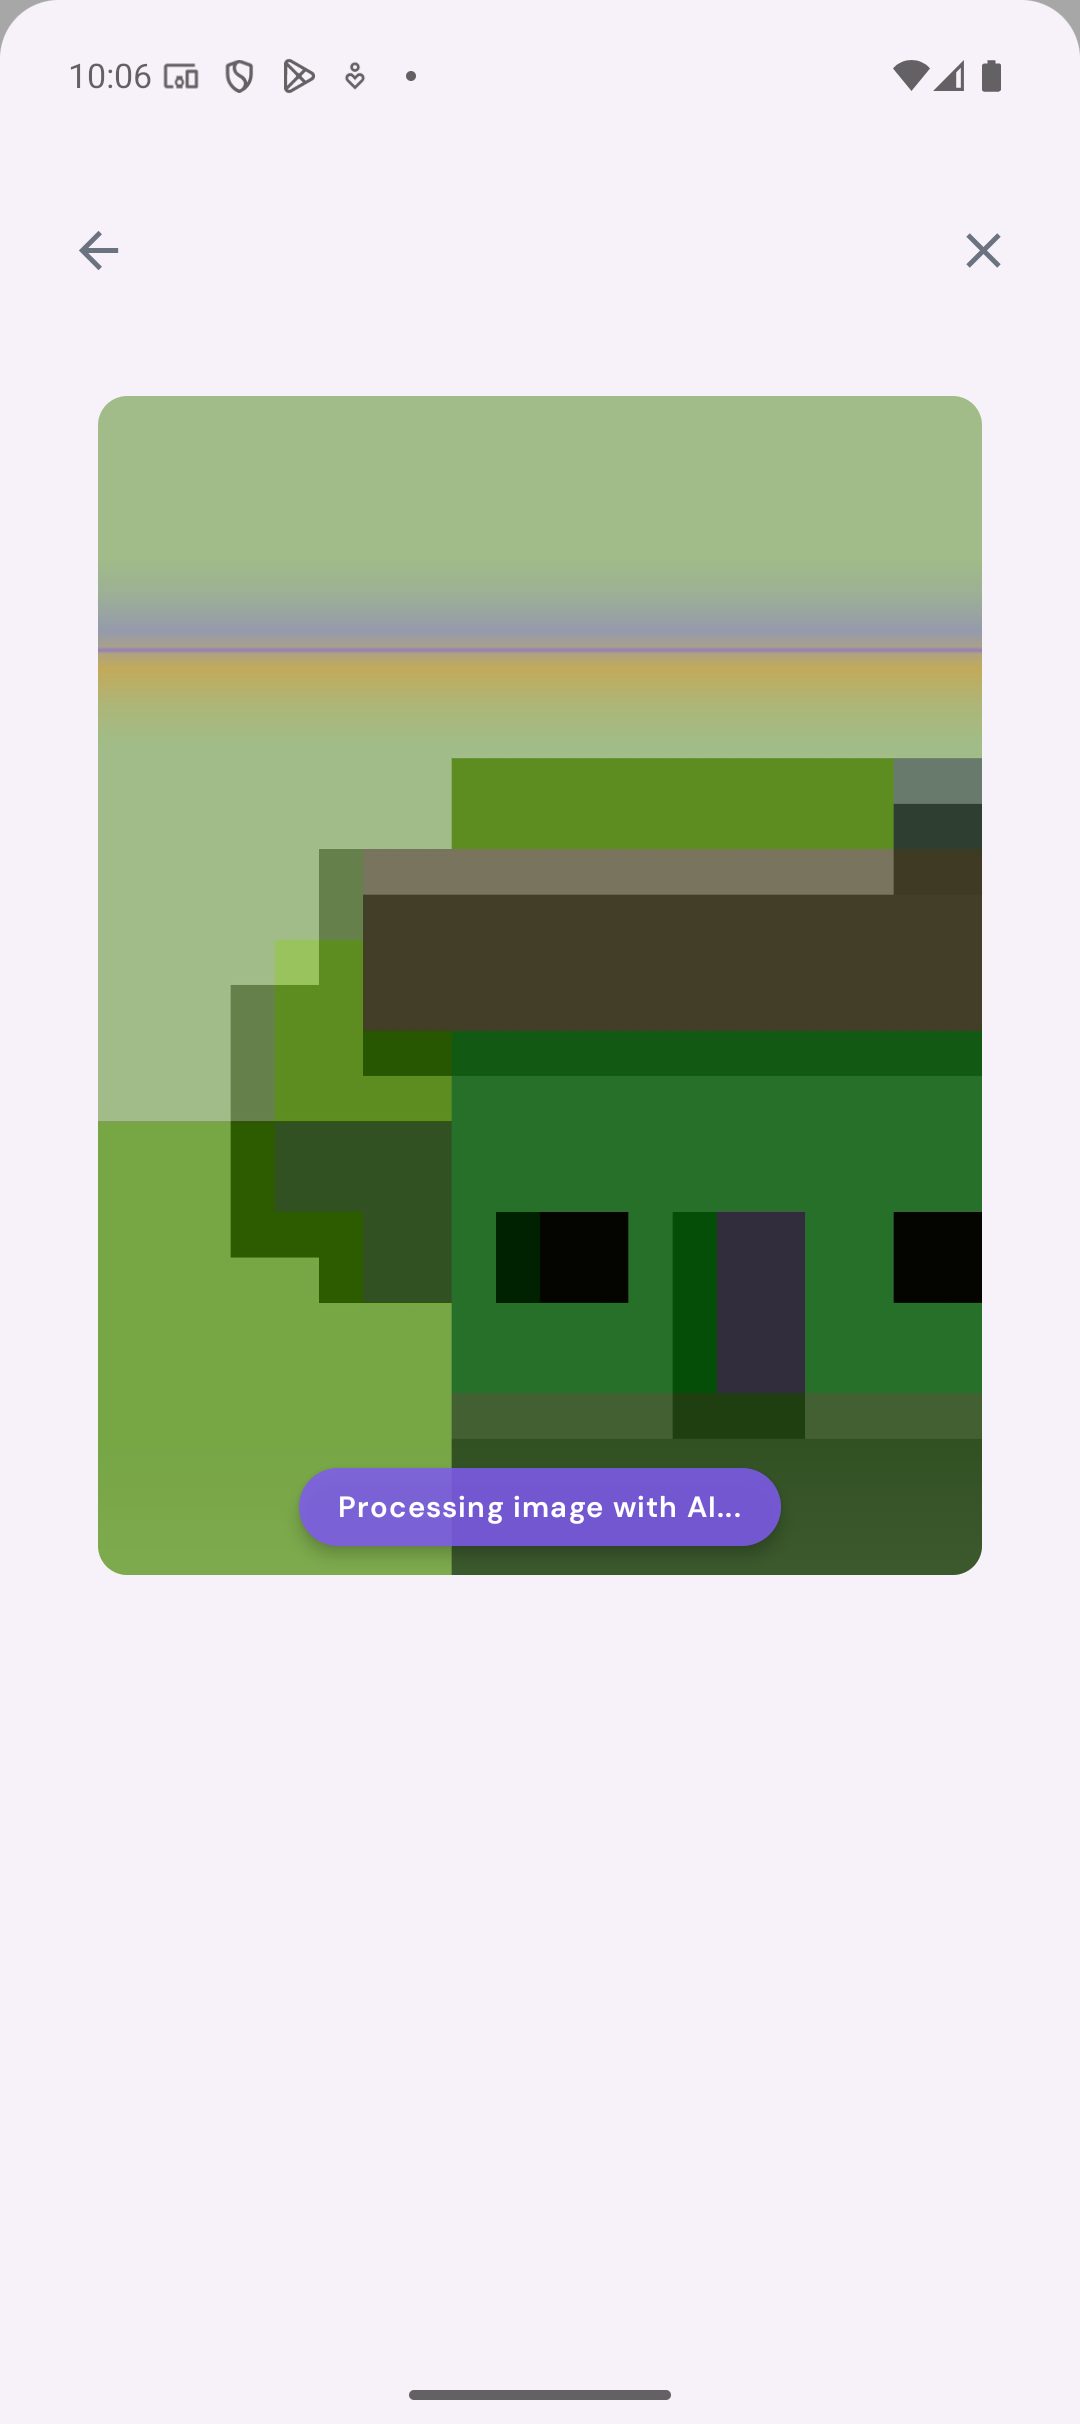
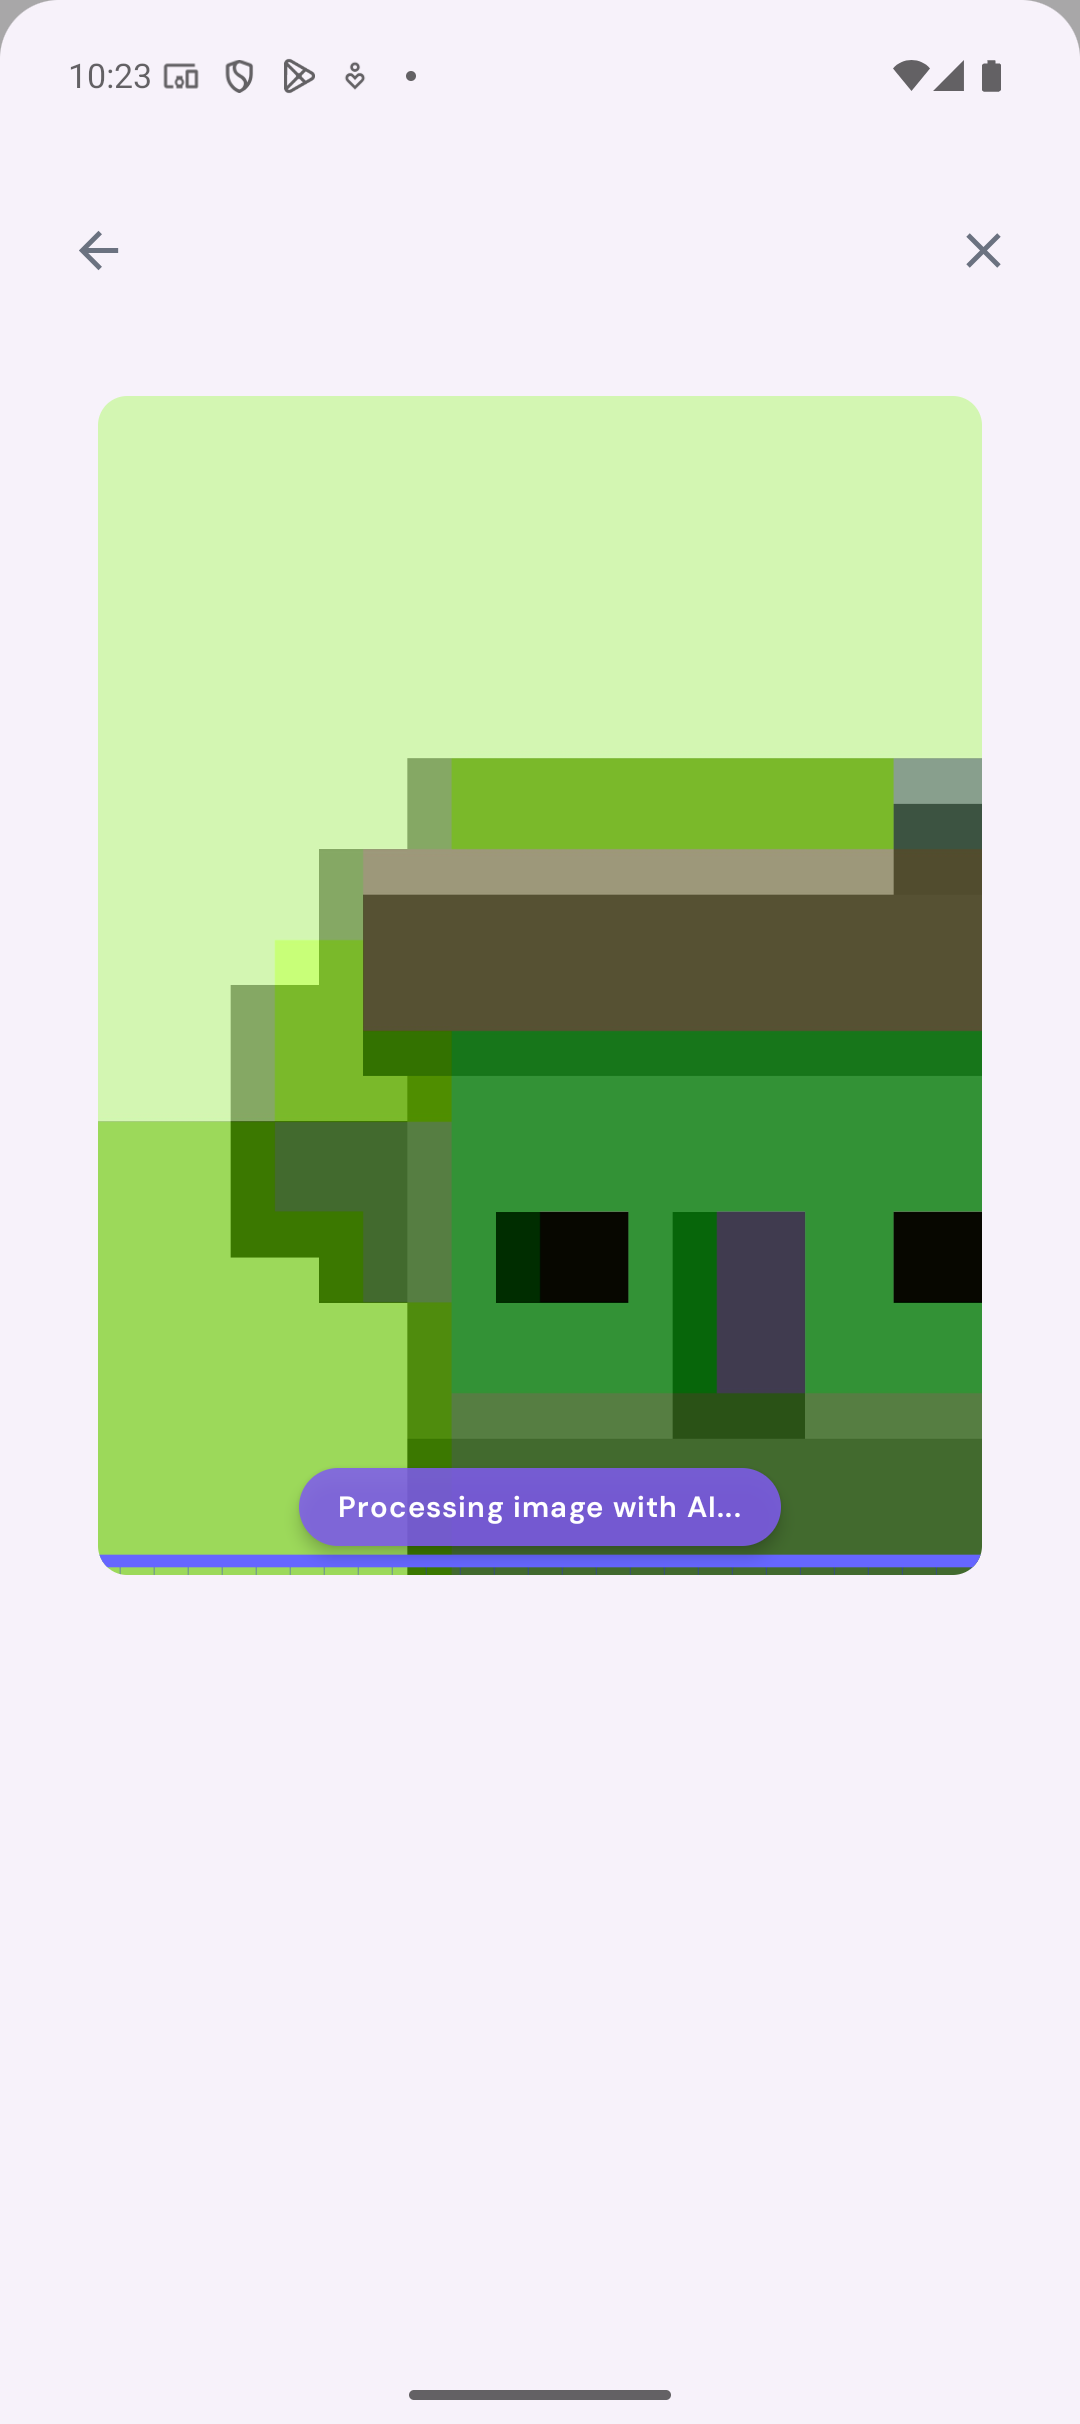
Use Lottie scanner animation for AI scan overlay
Replace the custom Canvas-based gradient wave with a bundled Lottie
scanner animation from LottieFiles. The animation renders as an
overlay on the image thumbnail during AI processing.

- Bundle scanner.json in composeResources/files/
- Load via LottieCompositionSpec.JsonString with Res.readBytes
- Keep the "Processing image with AI..." pill badge

diff --git a/design-system/src/commonMain/kotlin/components/animation/AiScanOverlay.kt b/design-system/src/commonMain/kotlin/components/animation/AiScanOverlay.kt
@@ -1,142 +1,67 @@
 package components.animation
 
-import androidx.compose.animation.core.LinearEasing
-import androidx.compose.animation.core.RepeatMode
-import androidx.compose.animation.core.animateFloat
-import androidx.compose.animation.core.infiniteRepeatable
-import androidx.compose.animation.core.rememberInfiniteTransition
-import androidx.compose.animation.core.tween
-import androidx.compose.foundation.Canvas
+import androidx.compose.foundation.Image
 import androidx.compose.foundation.layout.Box
 import androidx.compose.foundation.layout.fillMaxSize
-import androidx.compose.foundation.layout.fillMaxWidth
 import androidx.compose.foundation.layout.padding
 import androidx.compose.foundation.shape.RoundedCornerShape
 import androidx.compose.material3.MaterialTheme
 import androidx.compose.material3.Surface
 import androidx.compose.material3.Text
 import androidx.compose.runtime.Composable
+import androidx.compose.runtime.LaunchedEffect
 import androidx.compose.runtime.getValue
+import androidx.compose.runtime.mutableStateOf
+import androidx.compose.runtime.remember
+import androidx.compose.runtime.setValue
 import androidx.compose.ui.Alignment
 import androidx.compose.ui.Modifier
-import androidx.compose.ui.geometry.Offset
-import androidx.compose.ui.geometry.Size
-import androidx.compose.ui.graphics.Brush
 import androidx.compose.ui.graphics.Color
+import androidx.compose.ui.layout.ContentScale
 import androidx.compose.ui.text.font.FontWeight
 import androidx.compose.ui.unit.dp
+import io.github.alexzhirkevich.compottie.Compottie
+import io.github.alexzhirkevich.compottie.LottieCompositionSpec
+import io.github.alexzhirkevich.compottie.rememberLottieComposition
+import io.github.alexzhirkevich.compottie.rememberLottiePainter
+import lexicon.resources.generated.resources.Res
+import org.jetbrains.compose.resources.ExperimentalResourceApi
 
 /**
- * AI-style scanning overlay with an animated gradient wave that sweeps
- * vertically across the content. Designed to overlay image thumbnails
- * during AI processing.
+ * AI-style scanning overlay using a Lottie scanner animation.
+ * Designed to overlay image thumbnails during AI processing.
  *
  * @param label Text shown at the bottom of the overlay.
  * @param modifier Modifier for the root Box.
  */
+@OptIn(ExperimentalResourceApi::class)
 @Composable
 fun AiScanOverlay(
     label: String,
     modifier: Modifier = Modifier,
 ) {
-    val primary = MaterialTheme.colorScheme.primary
-    val tertiary = MaterialTheme.colorScheme.tertiary
+    var animationJson by remember { mutableStateOf<String?>(null) }
 
-    val infiniteTransition = rememberInfiniteTransition(label = "AiScan")
+    LaunchedEffect(Unit) {
+        animationJson = Res.readBytes("files/scanner.json").decodeToString()
+    }
 
-    // Main scan wave position — sweeps top-to-bottom
-    val scanProgress by infiniteTransition.animateFloat(
-        initialValue = -0.15f,
-        targetValue = 1.15f,
-        animationSpec = infiniteRepeatable(
-            animation = tween(durationMillis = 2400, easing = LinearEasing),
-            repeatMode = RepeatMode.Restart,
-        ),
-        label = "scanWave",
-    )
+    val json = animationJson ?: return
 
-    // Secondary shimmer — slower, broader
-    val shimmerProgress by infiniteTransition.animateFloat(
-        initialValue = -0.3f,
-        targetValue = 1.3f,
-        animationSpec = infiniteRepeatable(
-            animation = tween(durationMillis = 3600, easing = LinearEasing),
-            repeatMode = RepeatMode.Restart,
-        ),
-        label = "shimmer",
-    )
-
-    // Gentle pulse for the overlay opacity
-    val pulseAlpha by infiniteTransition.animateFloat(
-        initialValue = 0.18f,
-        targetValue = 0.28f,
-        animationSpec = infiniteRepeatable(
-            animation = tween(durationMillis = 1200, easing = LinearEasing),
-            repeatMode = RepeatMode.Reverse,
-        ),
-        label = "pulse",
-    )
+    val composition by rememberLottieComposition {
+        LottieCompositionSpec.JsonString(json)
+    }
 
     Box(modifier = modifier) {
-        Canvas(modifier = Modifier.fillMaxSize()) {
-            val w = size.width
-            val h = size.height
-
-            // Semi-transparent dark tint
-            drawRect(color = Color.Black.copy(alpha = pulseAlpha))
-
-            // Primary scan wave — narrow, bright gradient band
-            val waveCenter = h * scanProgress
-            val waveHalf = h * 0.08f
-            drawRect(
-                brush = Brush.verticalGradient(
-                    colors = listOf(
-                        Color.Transparent,
-                        primary.copy(alpha = 0.12f),
-                        primary.copy(alpha = 0.35f),
-                        tertiary.copy(alpha = 0.35f),
-                        tertiary.copy(alpha = 0.12f),
-                        Color.Transparent,
-                    ),
-                    startY = waveCenter - waveHalf,
-                    endY = waveCenter + waveHalf,
+        if (composition != null) {
+            Image(
+                painter = rememberLottiePainter(
+                    composition = composition,
+                    iterations = Compottie.IterateForever,
                 ),
-                topLeft = Offset.Zero,
-                size = Size(w, h),
-            )
-
-            // Horizontal glow line at wave center
-            drawRect(
-                brush = Brush.verticalGradient(
-                    colors = listOf(
-                        Color.Transparent,
-                        primary.copy(alpha = 0.5f),
-                        Color.Transparent,
-                    ),
-                    startY = waveCenter - 1.5f.dp.toPx(),
-                    endY = waveCenter + 1.5f.dp.toPx(),
-                ),
-                topLeft = Offset.Zero,
-                size = Size(w, h),
-            )
-
-            // Secondary shimmer — broader, softer
-            val shimmerCenter = h * shimmerProgress
-            val shimmerHalf = h * 0.18f
-            drawRect(
-                brush = Brush.verticalGradient(
-                    colors = listOf(
-                        Color.Transparent,
-                        Color.White.copy(alpha = 0.04f),
-                        Color.White.copy(alpha = 0.08f),
-                        Color.White.copy(alpha = 0.04f),
-                        Color.Transparent,
-                    ),
-                    startY = shimmerCenter - shimmerHalf,
-                    endY = shimmerCenter + shimmerHalf,
-                ),
-                topLeft = Offset.Zero,
-                size = Size(w, h),
+                contentDescription = null,
+                modifier = Modifier.fillMaxSize(),
+                contentScale = ContentScale.Crop,
             )
         }
 
@@ -154,7 +79,7 @@ fun AiScanOverlay(
                 modifier = Modifier.padding(horizontal = 16.dp, vertical = 8.dp),
                 style = MaterialTheme.typography.labelMedium,
                 fontWeight = FontWeight.SemiBold,
-                color = MaterialTheme.colorScheme.onPrimary,
+                color = Color.White,
             )
         }
     }
